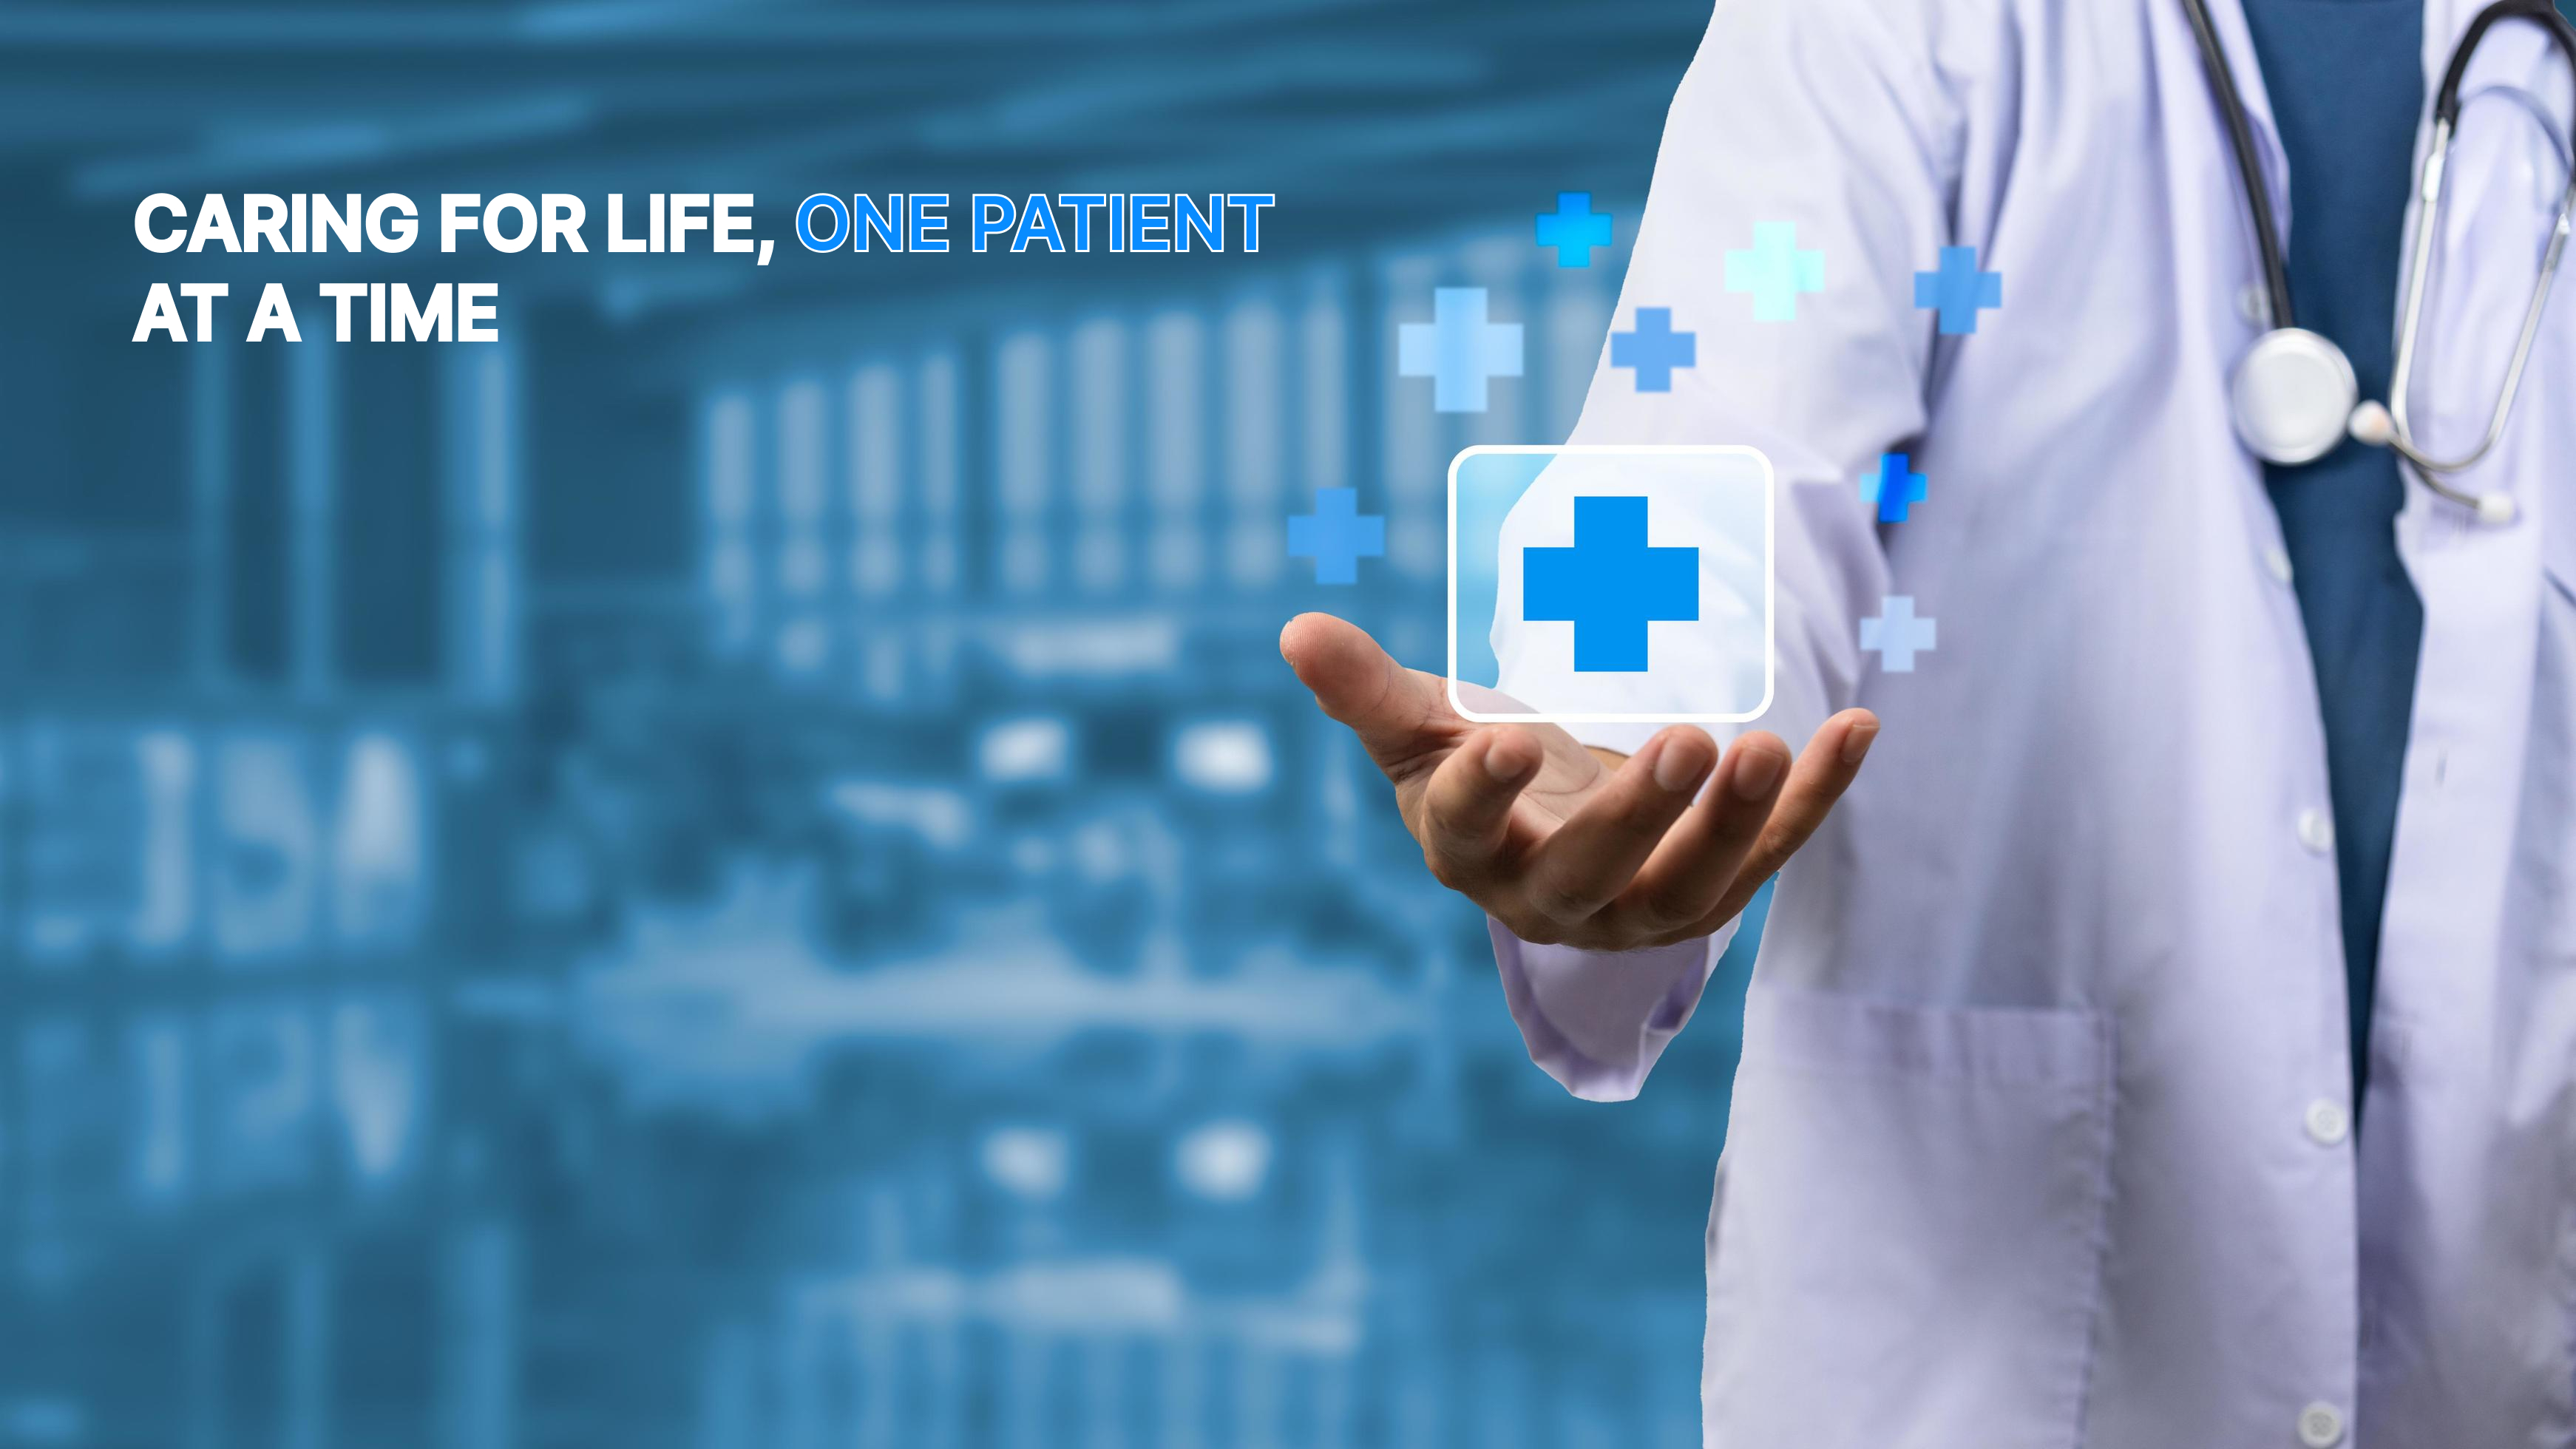
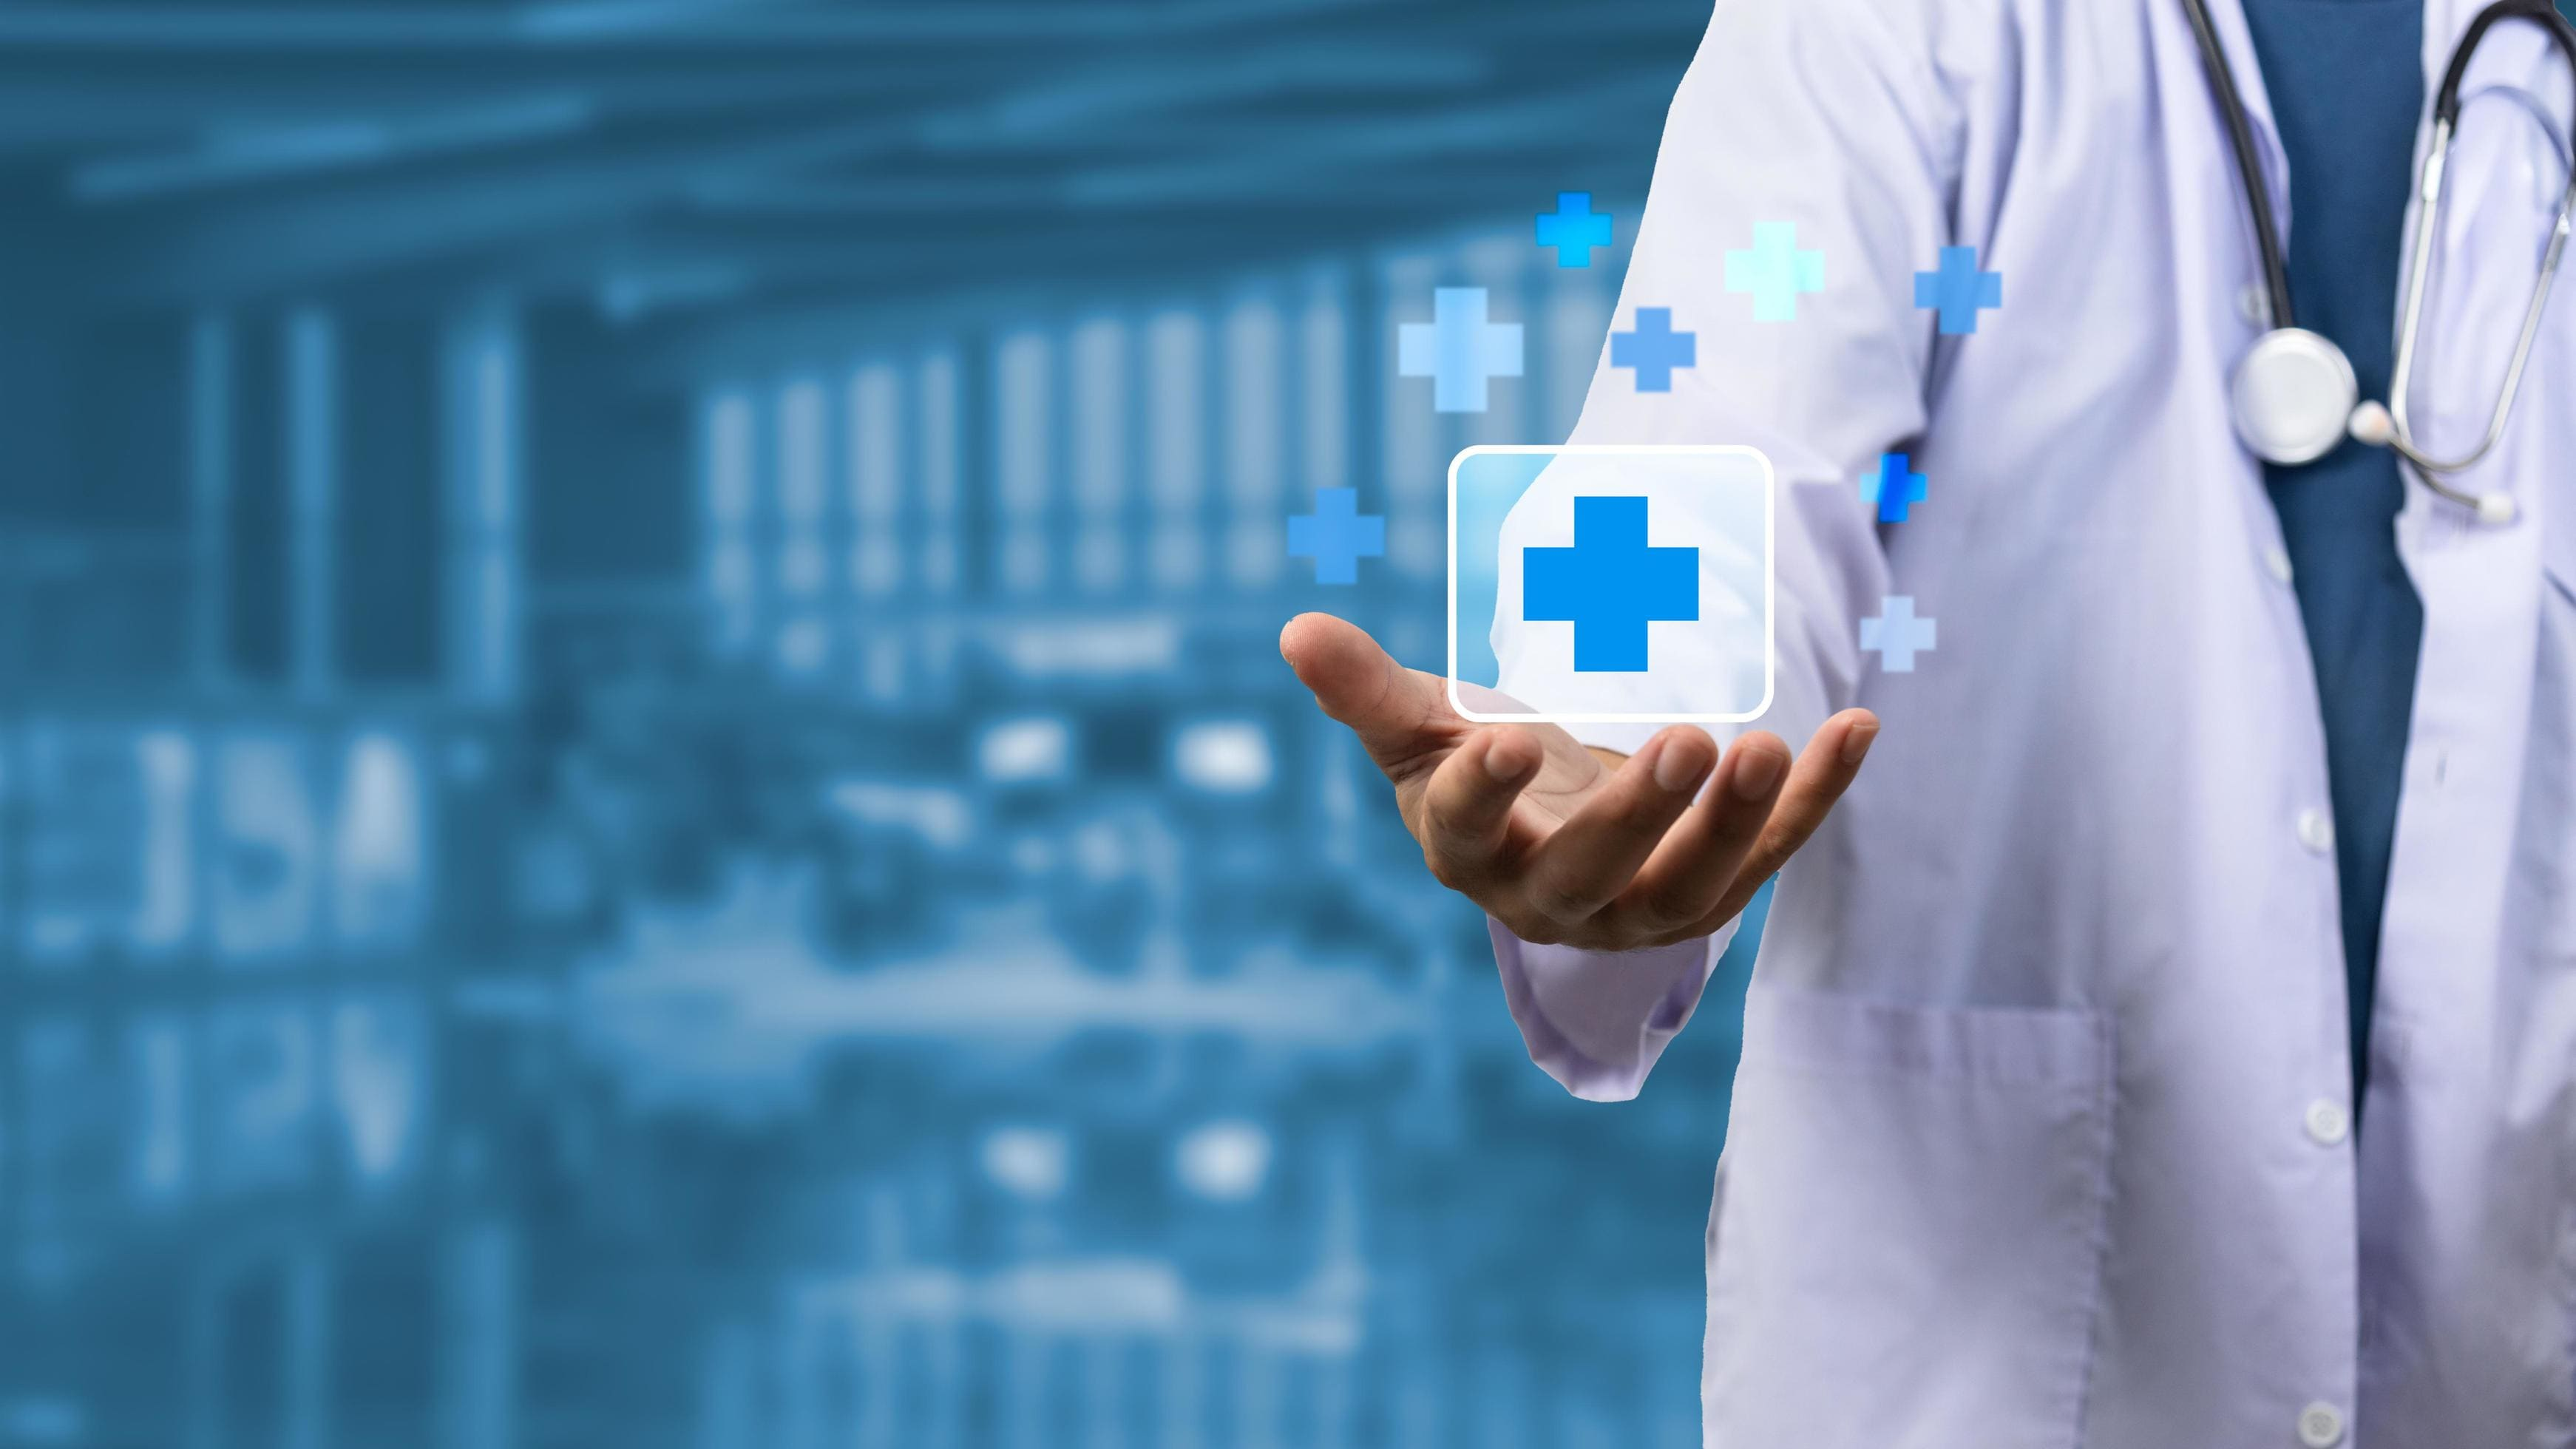
fix UI on frontend

Changed region(s): [[0.031, 0.1245, 0.496, 0.249]]

diff --git a/frontend/src/pages/DoctorBooking.jsx b/frontend/src/pages/DoctorBooking.jsx
@@ -124,54 +124,99 @@ function DoctorBooking() {
                 <div className="flex flex-col md:flex-row gap-6 items-center max-w-5xl w-full">
 
                     {/* Image */}
-                    <div className="overflow-hidden border border-(--color-text1) rounded-xl w-full max-w-xs">
+                    <div className="w-full max-w-xs overflow-hidden rounded-3xl border border-gray-200 bg-(--color-primary)/20 shadow-sm">
+
                         <img
                             src={element.image}
                             alt="doctor"
                             className="w-full h-auto object-cover"
                         />
+
                     </div>
 
                     {/* Content */}
-                    <div className="flex flex-col gap-4 w-full md:w-[60%]">
-                        <p>{onlineStatus ? "Online" : "Offline"}</p>
-                        {/* Availability */}
-                        <p className={`text-sm font-medium ${element.available ? 'text-green-600' : 'text-red-600'}`}>
-                            {element.available ? "Available" : "Unavailable"}
-                        </p>
+                    <div className="w-full md:w-[60%] bg-white rounded-3xl p-6 border border-gray-200 flex flex-col gap-6">
 
-                        {/* Name & speciality */}
-                        <div>
-                            <TextAnimation
-                                text={element.name}
-                                className="text-xl md:text-2xl font-medium"
-                                icon={<i className="bi bi-patch-check-fill text-blue-600"></i>}
-                            />
+                        {/* Status Row */}
+                        <div className="flex items-center justify-between flex-wrap gap-3">
 
-                            <p className="text-base md:text-lg font-medium text-(--color-text)">
-                                {element.speciality}
+                            <div className="relative flex items-center gap-2">
 
-                                <span className="ml-2 px-2 py-0.5 border border-(--color-text1) rounded-full text-xs text-(--color-text1)">
-                                    {element.experience}
+                                {/* Dot */}
+                                <span
+                                    className={`w-3 h-3 rounded-full ${onlineStatus ? "bg-green-500" : "bg-gray-400"
+                                        }`}
+                                ></span>
+
+                                {onlineStatus && (
+                                    <span className="absolute left-0 w-3 h-3 rounded-full bg-green-500 animate-ping opacity-75"></span>
+                                )}
+
+                                <p className="text-sm font-medium text-gray-600">
+                                    {onlineStatus ? "Online" : "Offline"}
+                                </p>
+
+                            </div>
+
+                            <span
+                                className={`px-3 py-1 rounded-full text-xs font-semibold border ${element.available
+                                    ? "bg-green-50 text-green-700 border-green-200"
+                                    : "bg-red-50 text-red-700 border-red-200"
+                                    }`}
+                            >
+                                {element.available ? "Available" : "Unavailable"}
+                            </span>
+                        </div>
+
+                        {/* Name & Speciality */}
+                        <div className="space-y-2">
+
+                            <div className="flex items-center gap-2">
+                                <TextAnimation
+                                    text={element.name}
+                                    className="text-2xl md:text-3xl font-bold text-gray-900"
+                                    icon={
+                                        <i className="bi bi-patch-check-fill text-blue-500 text-lg"></i>
+                                    }
+                                />
+                            </div>
+
+                            <div className="flex items-center flex-wrap gap-3">
+
+                                <p className="text-base md:text-lg font-medium text-gray-700">
+                                    {element.speciality}
+                                </p>
+
+                                <span className="px-3 py-1 rounded-full bg-gray-100 text-gray-600 text-xs font-medium">
+                                    {element.experience} Experience
                                 </span>
-                            </p>
+                            </div>
                         </div>
 
                         {/* About */}
-                        <div>
-                            <h1 className="font-semibold text-sm md:text-base">
-                                About <i className="bi bi-info-circle"></i>
-                            </h1>
+                        <div className="space-y-2">
 
-                            <p className="text-sm text-(--color-text2) leading-relaxed">
+                            <h2 className="flex items-center gap-2 text-base font-semibold text-gray-900">
+                                About
+                                <i className="bi bi-info-circle text-gray-500"></i>
+                            </h2>
+
+                            <p className="text-sm md:text-base leading-7 text-gray-500">
                                 {element.about}
                             </p>
                         </div>
 
                         {/* Fees */}
-                        <h2 className="font-medium text-(--color-text)">
-                            Appointment Fees - <span className="font-semibold text-green-600">₹{element.fees}</span>
-                        </h2>
+                        <div className="flex items-center justify-between border-t border-gray-100 pt-4">
+
+                            <p className="text-gray-600 font-medium">
+                                Consultation Fee
+                            </p>
+
+                            <h2 className="text-2xl font-bold text-green-600">
+                                ₹{element.fees}
+                            </h2>
+                        </div>
                     </div>
 
                 </div>
@@ -188,54 +233,78 @@ function DoctorBooking() {
                     </h1>
 
                     {/* Date Slots */}
-                    <div className="w-full flex gap-3 overflow-x-auto xl:justify-center pb-2 no-scrollbar">
+                    <div className="w-full flex gap-4 overflow-x-auto pb-3 pt-2 no-scrollbar xl:justify-center">
 
                         {dates.map((item, index) => (
-                            <div
+                            <button
                                 key={index}
                                 onClick={() => {
                                     setSelectedIndex(index);
                                     setSelectDate(item);
                                 }}
-                                className={`min-w-[80px] flex flex-col items-center p-3 border rounded-md cursor-pointer transition
-            ${selectedIndex === index
-                                        ? "bg-blue-500 text-white border-blue-500"
-                                        : "border-(--color-text1) hover:border-(--color-primary) hover:text-(--color-primary)"
+                                className={`group min-w-[90px] cursor-pointer rounded-2xl border px-4 py-3 flex flex-col items-center justify-center transition-all duration-300 shadow-sm ${selectedIndex === index
+                                    ? "bg-gradient-to-br from-blue-500 to-indigo-500 text-white border-blue-500 shadow-blue-200 shadow-lg scale-105"
+                                    : "bg-white border-gray-200 hover:border-blue-400 hover:shadow-md hover:-translate-y-1"
                                     }`}
                             >
-                                <p className="text-sm">{item.day}</p>
-                                <p className="text-xs">{item.date}</p>
-                            </div>
+
+                                <p className={`text-sm font-semibold
+                ${selectedIndex === index ? "text-white" : "text-gray-700"}
+            `}>
+                                    {item.day}
+                                </p>
+
+                                <p className={`text-xs mt-1
+                ${selectedIndex === index ? "text-blue-100" : "text-gray-500"}
+            `}>
+                                    {item.date}
+                                </p>
+
+                            </button>
                         ))}
 
                     </div>
 
+
                     {/* Time Slots */}
                     {selectedIndex !== null && (
-                        <div className="flex gap-2 mt-4 mb-2 overflow-x-auto pb-2 w-full xl:justify-center no-scrollbar">
+                        <div className="w-full flex gap-3 mt-6 overflow-auto pb-3 pt-2 no-scrollbar xl:justify-center">
 
                             {timeSlots.map((item, index) => {
+
                                 const isBooked = bookedSlots.includes(item);
 
                                 return (
-                                    <div
+                                    <button
                                         key={index}
                                         onClick={() => {
                                             if (isBooked) return;
+
                                             setSelectedTimeslot(index);
                                             setSelectTime(item);
                                         }}
-                                        className={`min-w-[90px] flex flex-col items-center justify-center p-3 border rounded-md cursor-pointer transition
-                ${isBooked
-                                                ? "bg-gray-100 text-gray-400 border-gray-200 cursor-not-allowed"
-                                                : selectedTimeslot === index
-                                                    ? "bg-blue-500 text-white border-blue-500"
-                                                    : "border-(--color-text1) hover:border-(--color-primary) hover:text-(--color-primary)"
+
+                                        className={`relative cursor-pointer min-w-[110px] rounded-2xl border px-4 py-3 flex flex-col items-center justify-center transition-all duration-300 shadow-sm ${isBooked
+                                            ? "bg-gray-100 border-gray-200 text-gray-400 cursor-not-allowed opacity-70"
+                                            : selectedTimeslot === index
+                                                ? "bg-gradient-to-r from-blue-500 to-indigo-500 text-white border-blue-500 shadow-lg shadow-blue-200 scale-105"
+                                                : "bg-white border-gray-200 hover:border-blue-400 hover:shadow-md hover:-translate-y-1"
                                             }`}
                                     >
-                                        <p className="text-sm">{item}</p>
-                                        {isBooked && <span className="text-xs">Booked</span>}
-                                    </div>
+
+                                        <p className={`text-sm font-medium
+                        ${selectedTimeslot === index ? "text-white" : ""}
+                    `}>
+                                            {item}
+                                        </p>
+
+                                        {isBooked && (
+                                            <span className="text-[10px] mt-1 px-2 py-0.5 rounded-full bg-red-100 text-red-500 font-medium">
+                                                Booked
+                                            </span>
+                                        )}
+
+                                    </button>
                                 );
                             })}
 

diff --git a/frontend/src/pages/Payment.jsx b/frontend/src/pages/Payment.jsx
@@ -14,16 +14,35 @@ function Payment() {
     }
   }, []);
 
+
+  useEffect(() => {
+    window.history.pushState(null, "", window.location.href);
+
+    const handleBack = () => {
+      window.history.pushState(null, "", window.location.href);
+      // optional: show modal instead of silent block
+      alert("You cannot go back during payment");
+    };
+
+    window.addEventListener("popstate", handleBack);
+
+    return () => {
+      window.removeEventListener("popstate", handleBack);
+    }
+  }, []);
+
   const { token, BackendUrl } = useContext(AppContext);
   const location = useLocation();
   const navigate = useNavigate();
   const height = window.innerHeight - 120; // Subtracting the height of the navbar (assuming it's 120px)
   const element = location.state ? location.state.element : false;
+  const allElement = location.state ? location.state.allElement : false;
   const date = location.state ? location?.state?.selectDate : false;
   const time = location.state ? location?.state?.selectTime : false;
   const fees = location.state ? location?.state?.fees : false;
   const [appCharge, setAppCharge] = useState(200);
   const [loading, setLoading] = useState(false);
+  console.log(element.fees);
 
   ///check the active button
   const [paymentMethod, setPaymentMethod] = useState(true);
@@ -74,9 +93,9 @@ function Payment() {
         }
       },
       "prefill": {
-        "name": 'Alex',
-        "email": '[email redacted]',
-        "contact": '[phone redacted]'
+        "name": allElement.patientName,
+        "email": allElement.patientEmail,
+        "contact": allElement.patientPhone
       },
       "theme": {
         "color": "(--color-primary)"

diff --git a/frontend/src/index.css b/frontend/src/index.css
@@ -165,3 +165,17 @@ html {
         width: 100%;
     }
 }
+
+
+.main-card {
+
+    will-change: transform;
+
+    transform: translate3d(0, 0, 0);
+
+}
+
+.outlined-text {
+    -webkit-text-stroke: 1.5px white;
+    paint-order: stroke fill;
+}

diff --git a/frontend/src/pages/Login/Sign/Signin.jsx b/frontend/src/pages/Login/Sign/Signin.jsx
@@ -53,6 +53,19 @@ function signin() {
             <section className="relative w-full min-h-screen flex items-center justify-center px-4">
 
                 {/* Background */}
+                <h1 className="absolute top-10 left-4 sm:left-10 text-3xl sm:text-4xl md:text-5xl font-extrabold uppercase leading-tight text-white">
+
+                    Caring for life,{" "}
+
+                    <span className="outlined-text text-(--color-primary)">
+                        one patient
+                    </span>
+
+                    <br />
+
+                    at a time
+
+                </h1>
                 <img
                     src={Images?.LoginBg}
                     alt="background"

diff --git a/frontend/src/pages/PatientDetails.jsx b/frontend/src/pages/PatientDetails.jsx
@@ -103,7 +103,7 @@ function PatientDetails() {
 
             toast.success(res.data.message);
 
-            navigate(`/doctor/${doctorId}/patientdetails/payment`, { state: { appointmentId: res.data.appointmentId, fees: element?.fees, element: element, selectTime: appointmentTime, selectDate: appointmentDate, fromBooking: true } });
+            navigate(`/doctor/${doctorId}/patientdetails/payment`, { state: { appointmentId: res.data.appointmentId, fees: element?.fees, element: element, selectTime: appointmentTime, selectDate: appointmentDate, patientName: patientName, patientPhone: patientPhone, patientEmail: patientEmail, fromBooking: true } });
 
         } catch (error) {
             toast.error(error?.response?.data?.message || error.message);
@@ -118,8 +118,7 @@ function PatientDetails() {
                 token ? (
 
                     <div
-                        className="w-full flex flex-col xl:flex-row gap-5 items-stretch justify-center h-[100vh] xl:h-[90vh]"
-                    >
+                        className="w-full flex flex-col xl:flex-row gap-5 items-stretch justify-center h-fit xl:h-[90vh]">
 
                         {/* ===== Form ===== */}
                         <form
@@ -215,7 +214,7 @@ function PatientDetails() {
                                             <label
                                                 className="text-sm font-semibold text-gray-700 uppercase tracking-wide"
                                             >
-                                                Patient Name
+                                                Patient Name <span className="text-red-600">*</span>
                                             </label>
 
                                             <input
@@ -233,7 +232,7 @@ function PatientDetails() {
                                             <label
                                                 className="text-sm font-semibold text-gray-700 uppercase tracking-wide"
                                             >
-                                                Patient Phone
+                                                Patient Phone <span className="text-red-600">*</span>
                                             </label>
 
                                             <input
@@ -252,7 +251,7 @@ function PatientDetails() {
                                             <label
                                                 className="text-sm font-semibold text-gray-700 uppercase tracking-wide"
                                             >
-                                                Reason
+                                                Reason <span className="text-red-600">*</span>
                                             </label>
 
                                             <textarea
@@ -285,7 +284,7 @@ function PatientDetails() {
                                     <div className="flex justify-center md:justify-end mt-8">
                                         <button
                                             type="submit"
-                                            className="w-full md:w-auto px-8 py-3 rounded-xl bg-gradient-to-r from-blue-600 to-indigo-600 text-white font-semibold text-base shadow-lg hover:shadow-2xl hover:scale-105 active:scale-95 transition-all duration-300 cursor-pointer"
+                                            className="w-full md:w-auto px-8 py-3 rounded-xl bg-gradient-to-r from-blue-600 to-indigo-600 text-white font-semibold text-base hover:shadow-2xl hover:scale-105 active:scale-95 transition-all duration-300 cursor-pointer"
                                         >
                                             {loading ? "Loading..." : "Book Appointment"}
                                         </button>

diff --git a/frontend/src/pages/Home/Header.jsx b/frontend/src/pages/Home/Header.jsx
@@ -4,6 +4,11 @@ import { Images } from '../../assets/img';
 
 
 function Header() {
+
+    useEffect(() => {
+        window.scrollTo(0, 0);
+    }, []);
+
     const useCountAnimation = (end, duration) => {
         const [count, setCount] = useState(0);
 
@@ -126,7 +131,7 @@ function Header() {
                             />
 
                             {/* Floating Card */}
-                            <div className="absolute bottom-5 left-1/2 -translate-x-1/2 sm:left-8 sm:translate-x-0 bg-white rounded-2xl shadow-lg px-4 sm:px-5 py-3 sm:py-4 flex items-center gap-3 w-[90%] sm:w-auto max-w-xs">
+                            <div className="absolute bottom-5 left-1/2 -translate-x-1/2 sm:left-8 sm:translate-x-0 bg-white rounded-2xl shadow-lg px-4 sm:px-5 py-3 sm:py-4 flex items-center gap-3 w-[90%] sm:w-auto max-w-xs main-card">
 
                                 <div className="w-10 h-10 sm:w-12 sm:h-12 rounded-full bg-green-100 flex items-center justify-center">
 